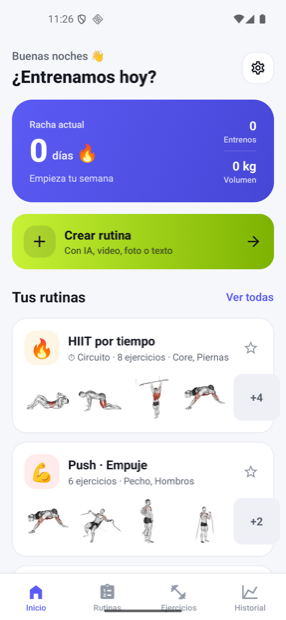
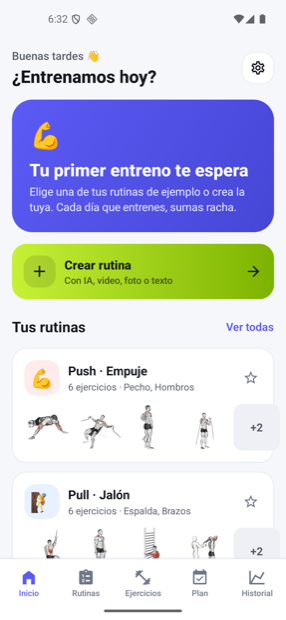
GymJournal v1.2.0: Spanish names, onboarding, styled dialogs, animations

diff --git a/index.html b/index.html
@@ -127,18 +127,19 @@
     {
       name: "GymJournal",
       iconImg: "apps/gymjournal/icon.png",
-      tagline: "Rutinas de gym con IA (YouTube, foto, texto o categoría), circuito por tiempo con voz y calendario de entrenos. 1324 ejercicios con video.",
-      version: "1.1.1",
+      tagline: "Rutinas de gym con IA en español (YouTube, foto, texto, categoría), circuito por tiempo con voz y calendario con medallas. 1324 ejercicios con video.",
+      version: "1.2.0",
       size: "72 MB",
-      apk: "https://github.com/cacorreap/personal-projects-public-apk/releases/download/gymjournal-v1.1.1/gymjournal.apk",
+      apk: "https://github.com/cacorreap/personal-projects-public-apk/releases/download/gymjournal-v1.2.0/gymjournal.apk",
       link: { label: "Más info", url: "https://cacorreap.github.io/gymjournal-public/" },
       gallery: [
+        "apps/gymjournal/shots/0-bienvenida.png",
         "apps/gymjournal/shots/1-inicio.png",
+        "apps/gymjournal/shots/8-rutina.png",
         "apps/gymjournal/shots/2-crear.png",
         "apps/gymjournal/shots/3-categorias.png",
         "apps/gymjournal/shots/7-plan.png",
         "apps/gymjournal/shots/4-circuito.png",
-        "apps/gymjournal/shots/5-prepara.png",
         "apps/gymjournal/shots/6-ejercicio.png",
       ],
     },
